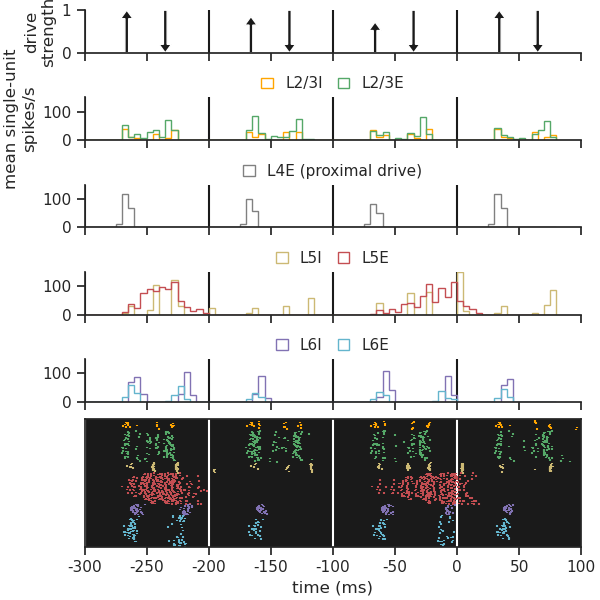
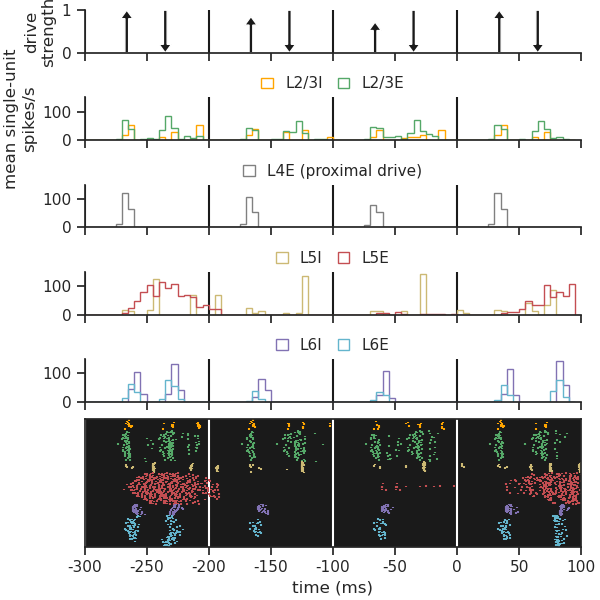
adjust plot_simulate_rep_L6.py to accomodate deep_basal conn target group; add prox/deep_basal L5->L6 nmda

diff --git a/rs_dd_project/plot_simulate_rep_L6.py b/rs_dd_project/plot_simulate_rep_L6.py
@@ -65,11 +65,11 @@ net = L6_model(connect_layer_6=True, legacy_mode=False,
 
 # prox drive weights and delays
 weights_ampa_prox = {'L2_basket': 0.100, 'L2_pyramidal': 0.200,
-                     'L5_basket': 0.030, 'L5_pyramidal': 0.008}
+                     'L5_basket': 0.030, 'L5_pyramidal': 0.008,
+                     'L6_pyramidal': 0.01}
 synaptic_delays_prox = {'L2_basket': 0.1, 'L2_pyramidal': 0.1,
-                        'L5_basket': 1., 'L5_pyramidal': 1.}
-weights_ampa_prox_L6 = {'L6_pyramidal': 0.01}
-synaptic_delays_prox_L6 = 0.1
+                        'L5_basket': 1., 'L5_pyramidal': 1.,
+                        'L6_pyramidal': 0.1}
 # dist drive weights and delays
 weights_ampa_dist = {'L2_basket': 0.006, 'L2_pyramidal': 0.100,
                      'L5_pyramidal': 0.100}
@@ -102,13 +102,6 @@ for rep_idx, rep_time in enumerate(rep_start_times):
         f'evprox_rep{rep_idx}', mu=rep_time + t_prox, sigma=2.47, numspikes=1,
         weights_ampa=weights_ampa_prox, weights_nmda=None,
         location='proximal', synaptic_delays=synaptic_delays_prox,
-        probability=prox_conn_prob * depression_factor,
-        conn_seed=conn_seed, event_seed=event_seed)
-    # Hack: prox drive should also target the distal projections of L6 Pyr
-    net.add_evoked_drive(
-        f'evprox_rep{rep_idx}_L6', mu=rep_time + t_prox, sigma=2.47,
-        numspikes=1, weights_ampa=weights_ampa_prox_L6,
-        location='distal', synaptic_delays=synaptic_delays_prox_L6,
         probability=prox_conn_prob * depression_factor,
         conn_seed=conn_seed, event_seed=event_seed)
 
@@ -178,10 +171,8 @@ for layer_idx, layer_spike_types in enumerate(spike_types):
             # (note that each drive has it's own set of artificial cell gids,
             # so the total artifical cell count is inflated compared to the
             # number of L4 stellate cells they represent)
-            n_cells_of_type = (
-                net.external_drives['evprox_rep0']['n_drive_cells'] +
-                net.external_drives['evprox_rep0_L6']['n_drive_cells']
-            )
+            n_cells_of_type = \
+                net.external_drives['evprox_rep0']['n_drive_cells']
         else:
             n_cells_of_type = len(net.gid_ranges[spike_type])
         rate_factor = 1 / n_cells_of_type

diff --git a/hnn_core/network_models.py b/hnn_core/network_models.py
@@ -358,13 +358,13 @@ def L6_model(params=None, add_drives_from_params=False,
 
     if connect_layer_6:
         # layer5 Pyr -> layer6 Pyr
-        weight = 0.00005
+        weight_L5_L6 = 0.00005
         for loc in ['proximal', 'deep_basal']:
             net.add_connection(src_gids='L5_pyramidal',
                                target_gids='L6_pyramidal',
                                loc=loc,
                                receptor='ampa',
-                               weight=weight,
+                               weight=weight_L5_L6,
                                delay=delay,
                                lamtha=10.,
                                probability=0.33)  # defuse excitatory input from L5
@@ -372,7 +372,7 @@ def L6_model(params=None, add_drives_from_params=False,
                            target_gids='L6_pyramidal',
                            loc='deep_basal',
                            receptor='nmda',
-                           weight=weight,
+                           weight=weight_L5_L6,
                            delay=delay,
                            lamtha=10.,
                            probability=0.33)  # defuse excitatory input from L5
